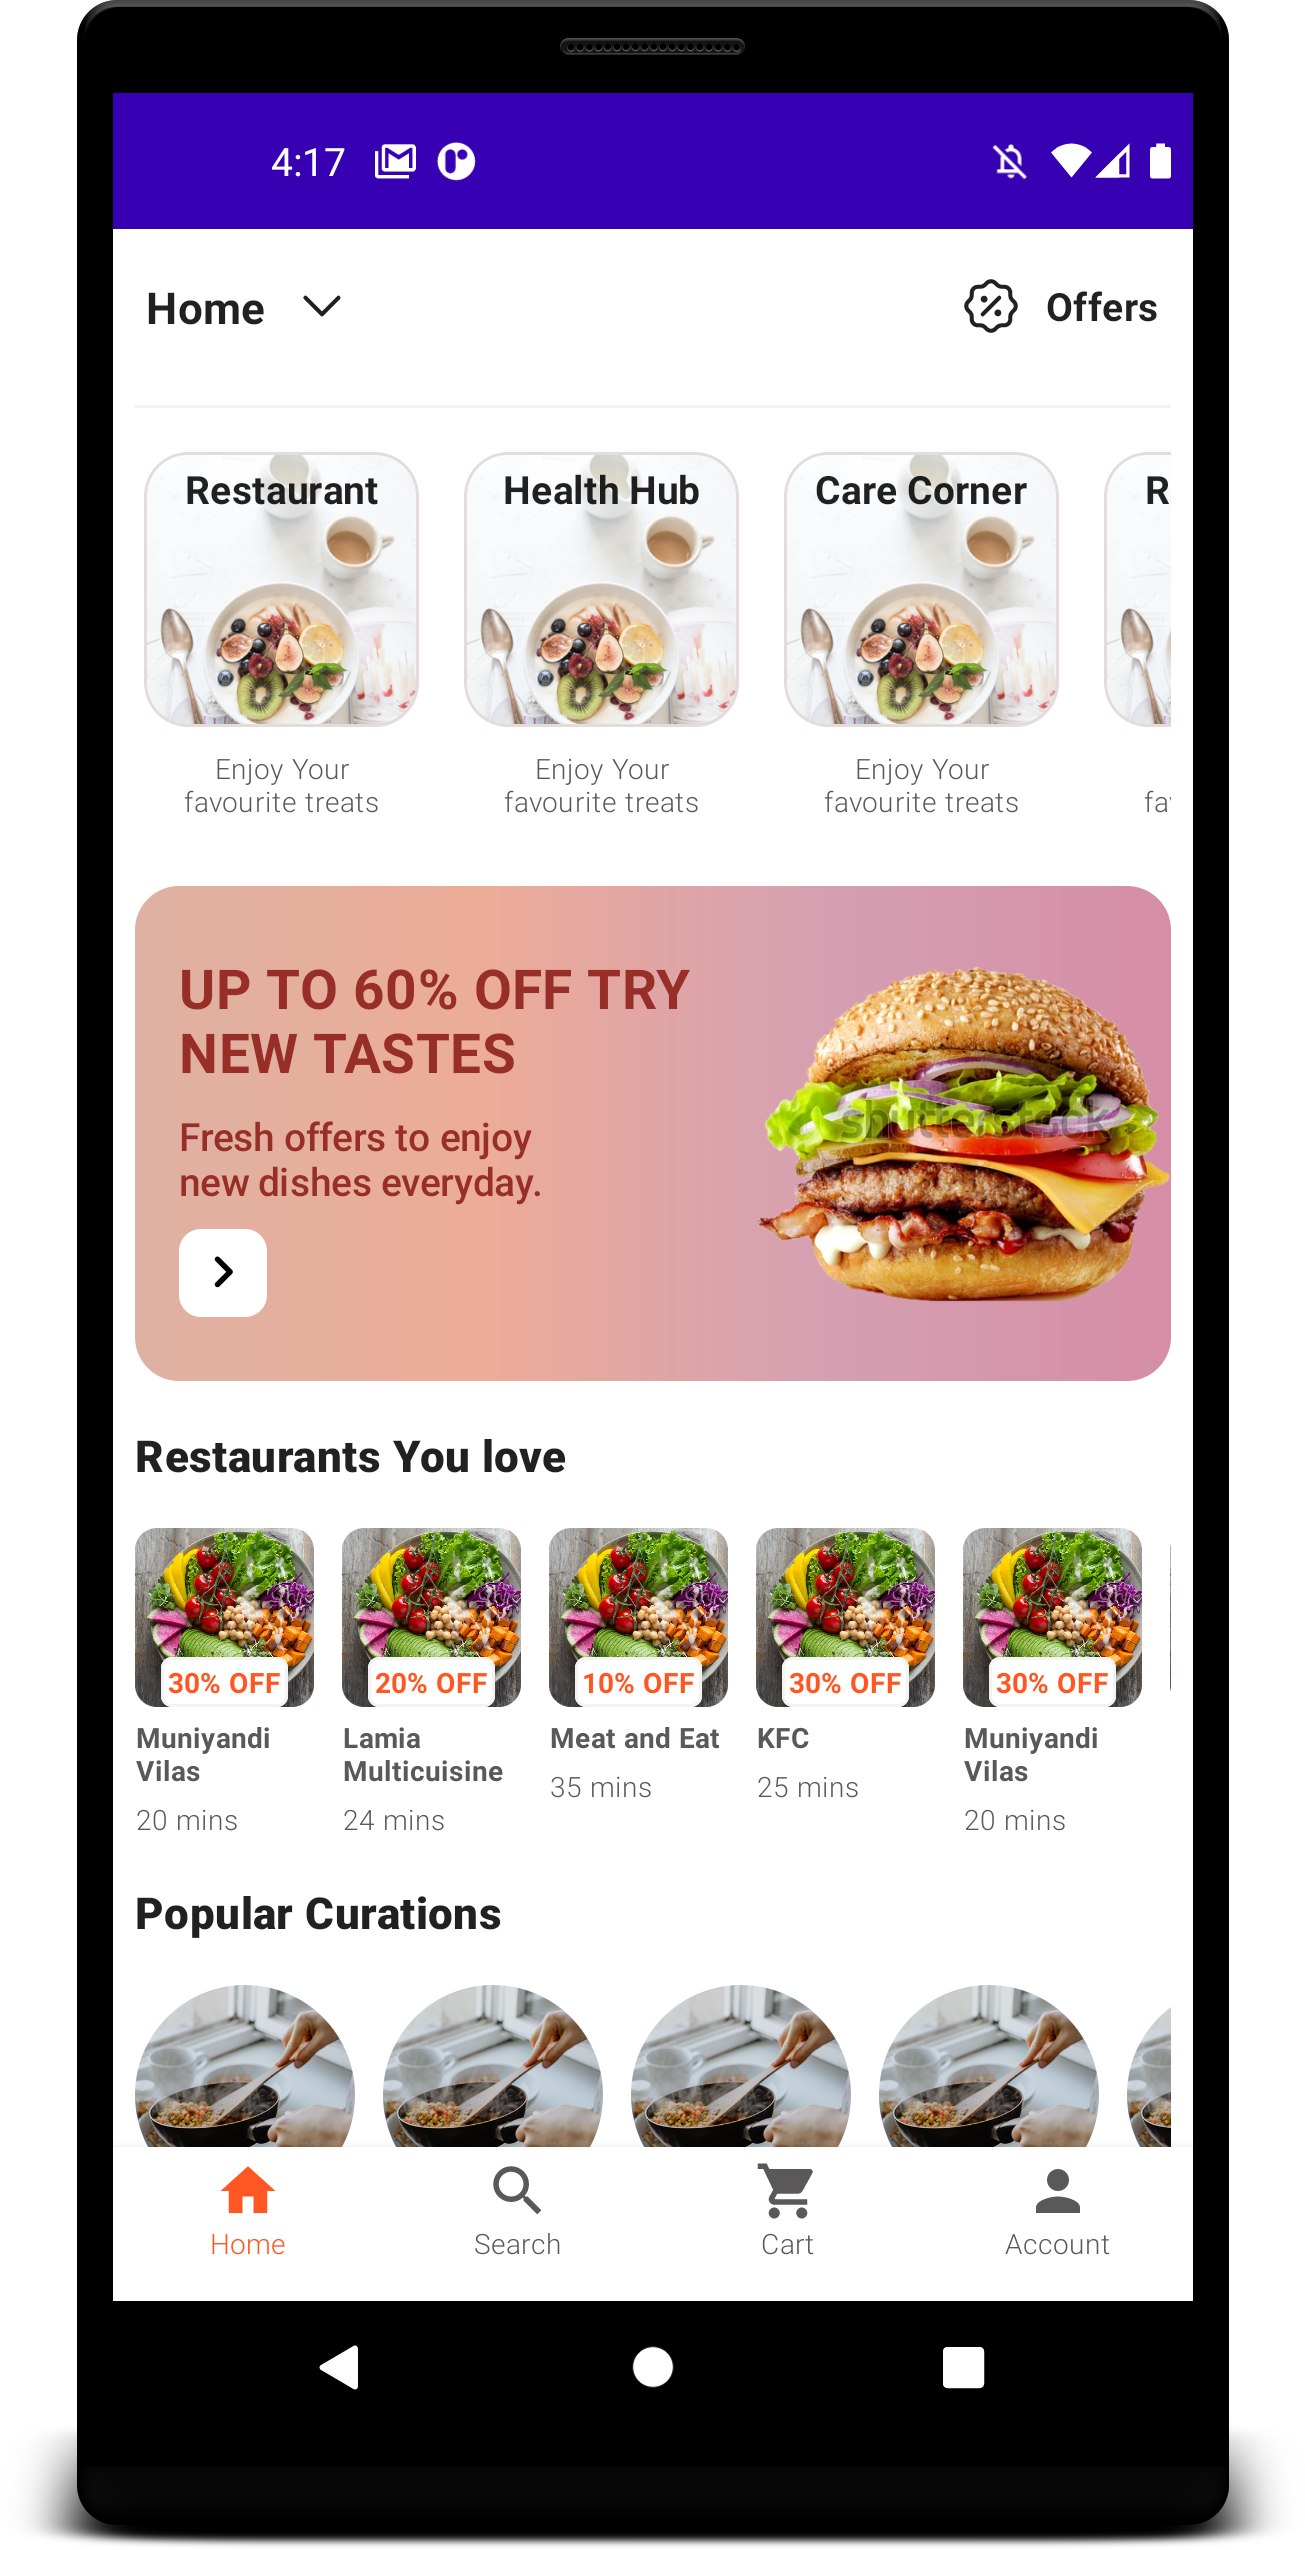
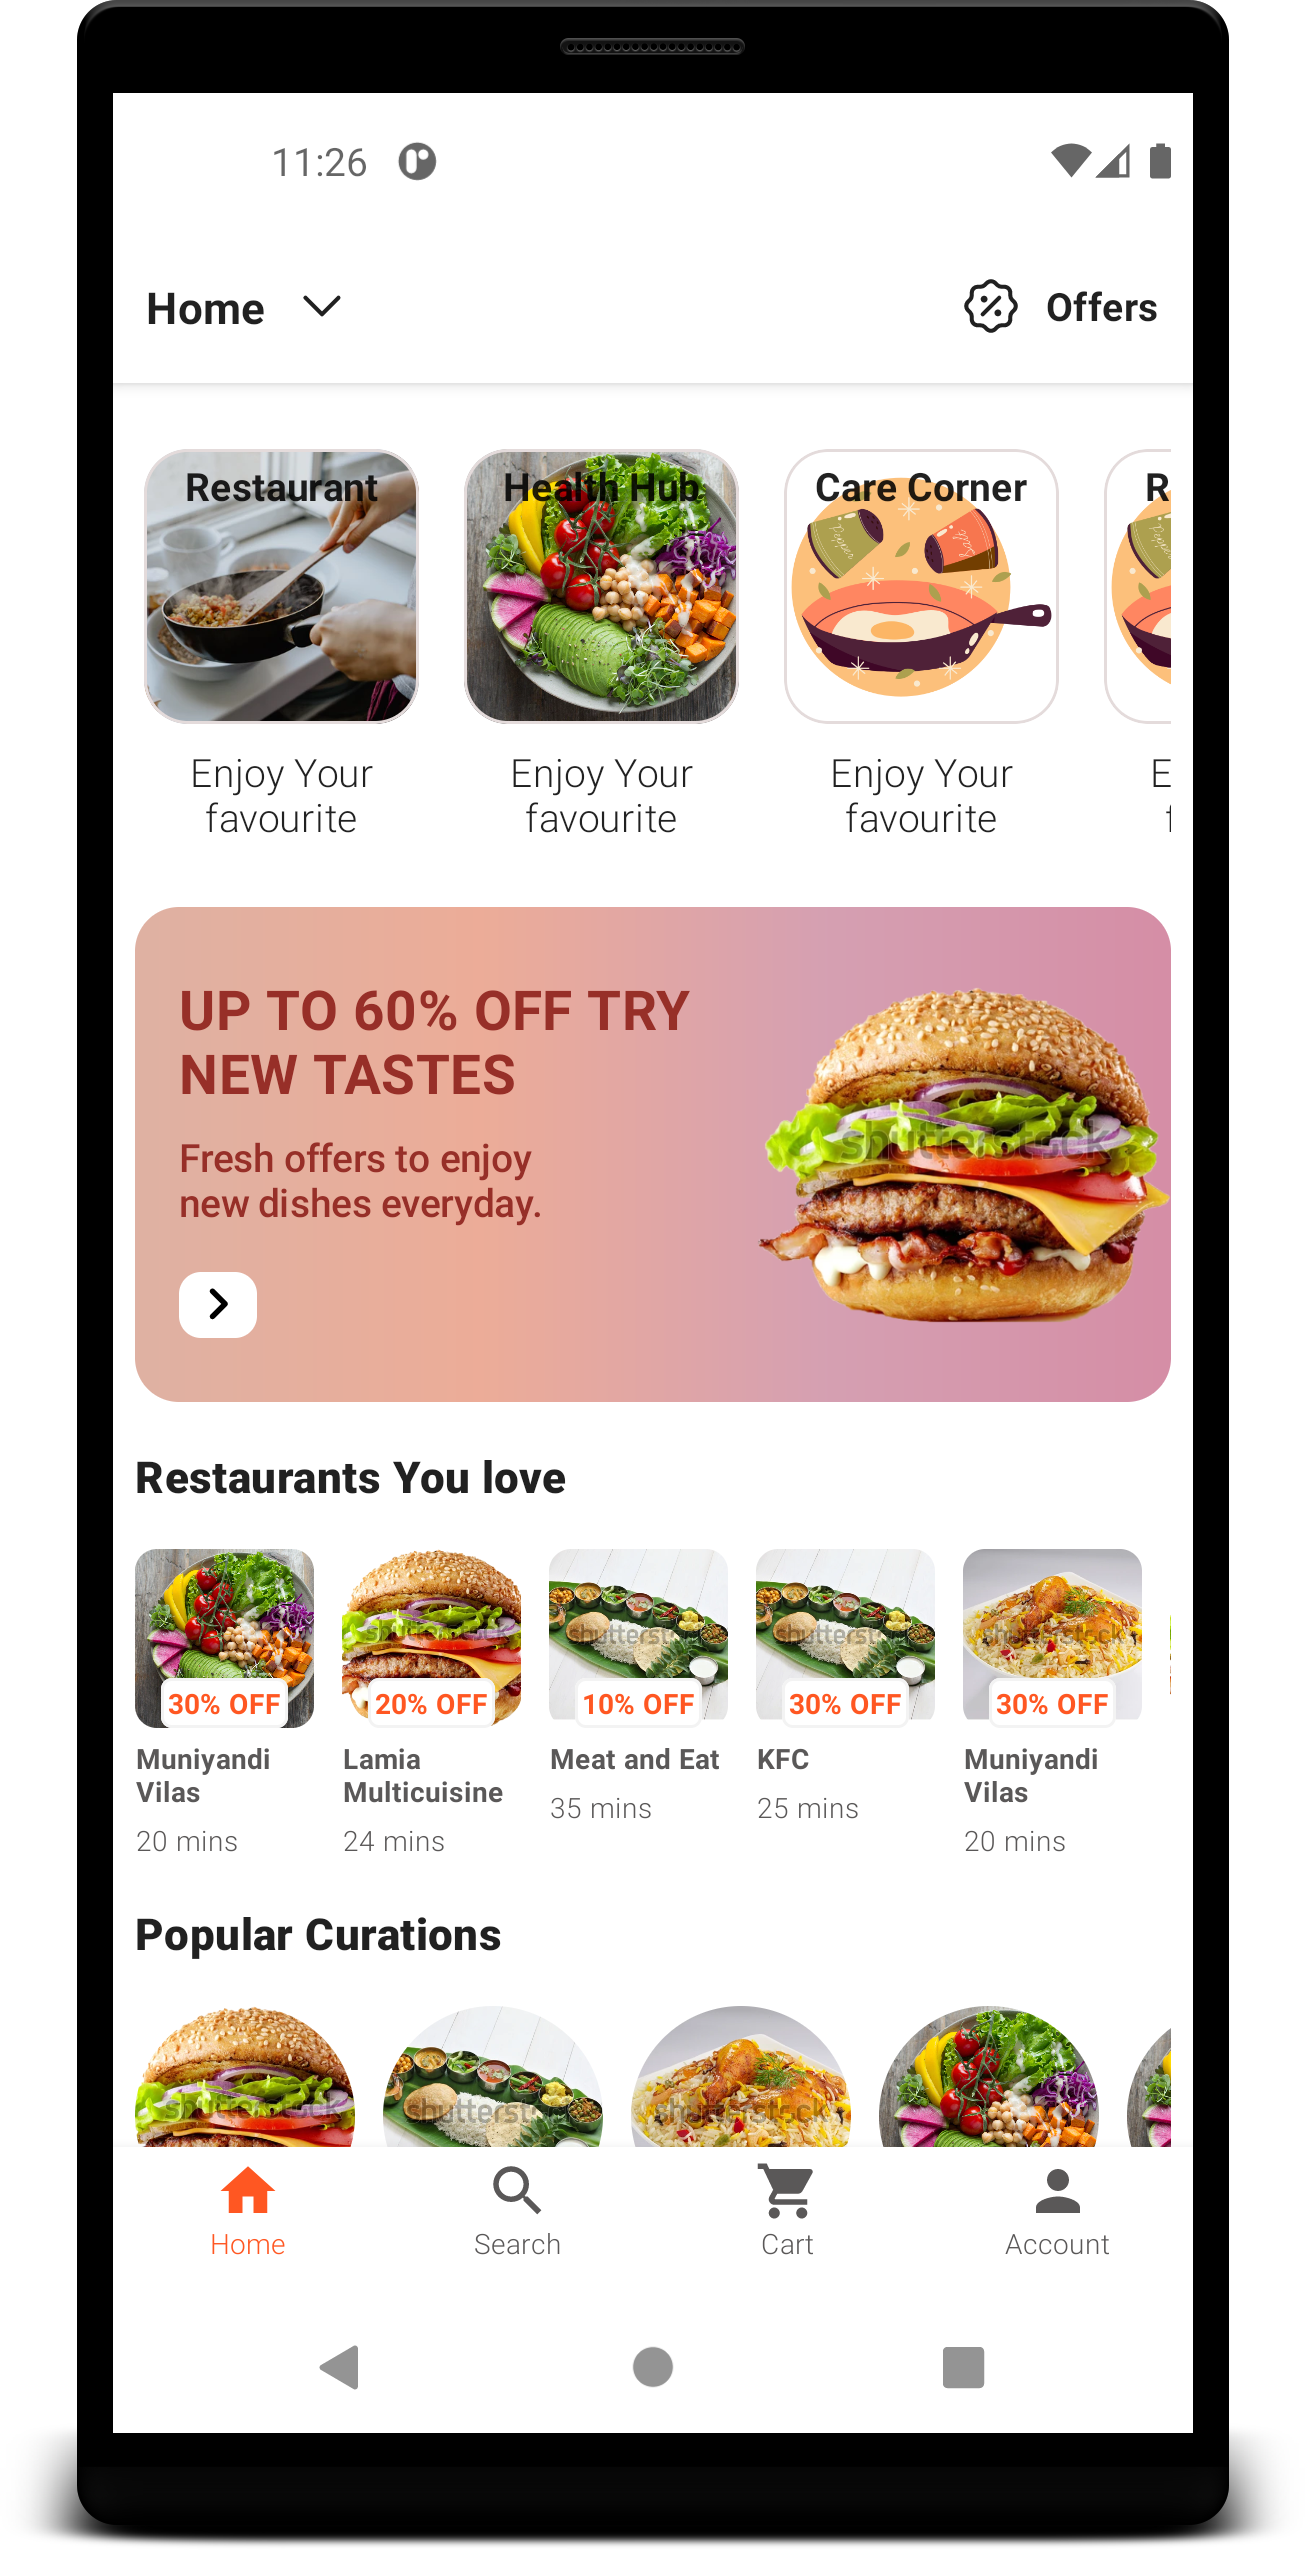
home screen ui updates

diff --git a/app/src/main/java/com/android/compose/swiggyclone/widgets/ItemBannerTypeOne.kt b/app/src/main/java/com/android/compose/swiggyclone/widgets/ItemBannerTypeOne.kt
@@ -20,56 +20,56 @@ import com.android.compose.swiggyclone.R
 
 @Composable
 fun ItemBannerTypeOne(modifier: Modifier) {
-    Box {
-        Row(
-            modifier
-                .fillMaxWidth()
-                .height(180.dp)
-                .clip(shape = RoundedCornerShape(16.dp))
-                .background(brush = Brush.horizontalGradient(colors = pinkGradiant), alpha = 0.6f)
+    Row(
+        modifier
+            .fillMaxWidth()
+            .height(180.dp)
+            .clip(shape = RoundedCornerShape(16.dp))
+            .background(brush = Brush.horizontalGradient(colors = pinkGradiant), alpha = 0.6f)
 
+    ) {
+        Column(
+            horizontalAlignment = Alignment.Start,
+            verticalArrangement = Arrangement.Center,
+            modifier = modifier
+                .padding(16.dp)
+                .fillMaxHeight()
+                .weight(0.6f)
         ) {
-            Column(
-                horizontalAlignment = Alignment.Start,
-                verticalArrangement = Arrangement.Center,
-                modifier = modifier
-                    .padding(16.dp)
-                    .fillMaxHeight()
-                    .weight(0.6f)
-            ) {
-                Text(
-                    text = "up to 60% off try new tastes".uppercase(),
-                    style = Typography.h6.copy(
-                        color = brown,
-                        fontWeight = FontWeight.Bold
-                    )
+            Text(
+                text = "up to 60% off try new tastes".uppercase(),
+                style = Typography.h6.copy(
+                    color = brown,
+                    fontWeight = FontWeight.Bold
                 )
+            )
 
-                Text(
-                    text = "Fresh offers to enjoy\nnew dishes everyday.",
-                    style = Typography.subtitle2.copy(
-                        color = brown,
-                    ),
-                    modifier = modifier.padding(top = 8.dp, bottom = 8.dp)
-                )
+            Text(
+                text = "Fresh offers to enjoy\nnew dishes everyday.",
+                style = Typography.subtitle2.copy(
+                    color = brown,
+                ),
+                modifier = modifier.padding(top = 8.dp, bottom = 8.dp)
+            )
 
-                Image(
-                    imageVector = Icons.Rounded.NavigateNext,
-                    contentDescription = "",
-                    modifier = modifier
-                        .background(shape = RoundedCornerShape(8.dp), color = white)
-                        .padding(4.dp),
-                )
-            }
+            Spacer(modifier = modifier.height(8.dp))
 
             Image(
-                painter = painterResource(id = R.drawable.img_burger),
+                imageVector = Icons.Rounded.NavigateNext,
                 contentDescription = "",
                 modifier = modifier
-                    .align(Alignment.CenterVertically)
-                    .weight(0.4f)
-                    .fillMaxHeight(),
+                    .background(shape = RoundedCornerShape(8.dp), color = white)
+                    .padding(start = 2.dp, end = 2.dp),
             )
         }
+
+        Image(
+            painter = painterResource(id = R.drawable.img_burger),
+            contentDescription = "",
+            modifier = modifier
+                .align(Alignment.CenterVertically)
+                .weight(0.4f)
+                .fillMaxHeight(),
+        )
     }
 }

diff --git a/app/src/main/java/com/android/compose/swiggyclone/widgets/ItemService.kt b/app/src/main/java/com/android/compose/swiggyclone/widgets/ItemService.kt
@@ -13,11 +13,12 @@ import androidx.compose.ui.Alignment
 import androidx.compose.ui.Modifier
 import androidx.compose.ui.draw.clip
 import androidx.compose.ui.layout.ContentScale
+import androidx.compose.ui.platform.LocalContext
 import androidx.compose.ui.res.painterResource
 import androidx.compose.ui.text.font.FontWeight
 import androidx.compose.ui.text.style.TextAlign
 import androidx.compose.ui.unit.dp
-import com.android.compose.swiggyclone.R
+import com.android.compose.swiggyclone.SwiggyCloneApp
 import com.android.compose.swiggyclone.ui.theme.Typography
 import com.android.compose.swiggyclone.ui.theme.grey
 
@@ -27,9 +28,12 @@ fun ItemServiceType(
     serviceName: String,
     description: String
 ) {
+    val context = LocalContext.current
+
     Column(
         horizontalAlignment = Alignment.CenterHorizontally,
-        modifier = modifier.padding(end = 10.dp)
+        modifier = modifier.padding(end = 10.dp),
+        verticalArrangement = Arrangement.Center
     ) {
         Box(
             modifier = modifier
@@ -42,7 +46,7 @@ fun ItemServiceType(
                 .height(100.dp)
         ) {
             Image(
-                painter = painterResource(id = R.drawable.img_service_type_placeholder),
+                painter = painterResource(id = (context.applicationContext as SwiggyCloneApp).getRandomImage()),
                 contentDescription = "",
                 contentScale = ContentScale.Crop,
                 modifier = modifier.clip(shape = RoundedCornerShape(16.dp))
@@ -63,7 +67,7 @@ fun ItemServiceType(
                 .padding(8.dp)
                 .width(90.dp),
             textAlign = TextAlign.Center,
-            style = Typography.caption,
+            style = Typography.body2.copy(fontWeight = FontWeight.Light),
             maxLines = 2
         )
     }

diff --git a/app/src/main/java/com/android/compose/swiggyclone/SwiggyCloneApp.kt b/app/src/main/java/com/android/compose/swiggyclone/SwiggyCloneApp.kt
@@ -1,12 +1,8 @@
 package com.android.compose.swiggyclone
 
 import android.app.Application
-import android.os.Build
-import android.util.Log
-import androidx.annotation.RequiresApi
-import java.io.File
-import java.nio.file.Files
-import java.nio.file.Paths
+import java.util.*
+
 
 class SwiggyCloneApp : Application() {
 
@@ -14,24 +10,18 @@ class SwiggyCloneApp : Application() {
         super.onCreate()
     }
 
-    companion object{
-//        fun getRandomImage() {
-//            Log.d("da", "getRandomImage")
-//            val drawableClass = R.drawable::class.java
-//            File("src/main/res/drawable").walk()
-//                .forEach {
-//                    Log.d("da", it.name)
-//                }
-//            val projectDirAbsolutePath = Paths.get("").toAbsolutePath().toString()
-//            val resourcesPath = Paths.get(projectDirAbsolutePath, "/src/main/res/drawable")
-//            Files.walk(resourcesPath)
-//                .filter { item -> Files.isRegularFile(item) }
-//                .filter { item -> item.toString().endsWith(".png") }
-//                .forEach { item -> println("filename: $item") }
-//
-////        val field = drawableClass.getDeclaredField(fileName)
-////        field.getInt(field)
-////        return field.getInt(field)
-//        }
+    fun getFoodImage(): Int {
+        val images = resources.obtainTypedArray(R.array.food_images_array)
+        val rand = Random()
+        val rndInt = rand.nextInt(images.length())
+        return images.getResourceId(rndInt, 0)
     }
+
+    fun getRandomImage(): Int {
+        val images = resources.obtainTypedArray(R.array.all_images_array)
+        val rand = Random()
+        val rndInt = rand.nextInt(images.length())
+        return images.getResourceId(rndInt, 0)
+    }
+
 }

diff --git a/app/src/main/java/com/android/compose/swiggyclone/widgets/ItemRestaurantSmall.kt b/app/src/main/java/com/android/compose/swiggyclone/widgets/ItemRestaurantSmall.kt
@@ -11,11 +11,12 @@ import androidx.compose.ui.Alignment
 import androidx.compose.ui.Modifier
 import androidx.compose.ui.draw.clip
 import androidx.compose.ui.layout.ContentScale
+import androidx.compose.ui.platform.LocalContext
 import androidx.compose.ui.res.painterResource
 import androidx.compose.ui.text.font.FontWeight
 import androidx.compose.ui.text.style.TextOverflow
 import androidx.compose.ui.unit.dp
-import com.android.compose.swiggyclone.R
+import com.android.compose.swiggyclone.SwiggyCloneApp
 import com.android.compose.swiggyclone.ui.theme.Typography
 import com.android.compose.swiggyclone.ui.theme.greyLight
 import com.android.compose.swiggyclone.ui.theme.secondaryVariant
@@ -27,14 +28,17 @@ fun ItemRestaurantSmall(
     modifier: Modifier,
     restaurant: Triple<String, String, Int>
 ) {
+    val context = LocalContext.current
     val itemMaxWidth = 65.dp
+
     Column(
         horizontalAlignment = Alignment.CenterHorizontally,
-        modifier = modifier.padding(end = 10.dp)
+        modifier = modifier.padding(end = 10.dp),
+        verticalArrangement = Arrangement.Center
     ) {
         Box {
             Image(
-                painter = painterResource(id = R.drawable.img_food_placeholder),
+                painter = painterResource(id = (context.applicationContext as SwiggyCloneApp).getFoodImage()),
                 contentDescription = "",
                 modifier = modifier
                     .size(itemMaxWidth, itemMaxWidth)
@@ -64,6 +68,7 @@ fun ItemRestaurantSmall(
             style = Typography.caption.copy(fontWeight = FontWeight.Bold), maxLines = 2,
             overflow = TextOverflow.Ellipsis
         )
+
         Text(
             text = restaurant.second, modifier = modifier
                 .padding(top = 4.dp)

diff --git a/app/src/main/java/com/android/compose/swiggyclone/widgets/ItemPopularCuration.kt b/app/src/main/java/com/android/compose/swiggyclone/widgets/ItemPopularCuration.kt
@@ -8,27 +8,29 @@ import androidx.compose.foundation.layout.size
 import androidx.compose.foundation.layout.width
 import androidx.compose.foundation.shape.CircleShape
 import androidx.compose.foundation.shape.CornerSize
-import androidx.compose.foundation.shape.RoundedCornerShape
 import androidx.compose.material.Text
 import androidx.compose.runtime.Composable
 import androidx.compose.ui.Alignment
 import androidx.compose.ui.Modifier
 import androidx.compose.ui.draw.clip
 import androidx.compose.ui.layout.ContentScale
+import androidx.compose.ui.platform.LocalContext
 import androidx.compose.ui.res.painterResource
 import androidx.compose.ui.unit.dp
-import com.android.compose.swiggyclone.R
+import com.android.compose.swiggyclone.SwiggyCloneApp
 import com.android.compose.swiggyclone.ui.theme.Typography
 import com.android.compose.swiggyclone.ui.theme.white
 
 @Composable
 fun ItemPopularCuration(modifier: Modifier, curationName: String) {
+    val context = LocalContext.current
+
     Column(
         horizontalAlignment = Alignment.CenterHorizontally,
         modifier = modifier.padding(end = 10.dp)
     ) {
         Image(
-            painter = painterResource(id = R.drawable.img_cooking),
+            painter = painterResource(id = (context.applicationContext as SwiggyCloneApp).getFoodImage()),
             contentDescription = "",
             modifier = modifier
                 .size(80.dp)

diff --git a/app/src/main/java/com/android/compose/swiggyclone/ui/theme/Theme.kt b/app/src/main/java/com/android/compose/swiggyclone/ui/theme/Theme.kt
@@ -3,9 +3,12 @@ package com.android.compose.swiggyclone.ui.theme
 import android.app.StatusBarManager
 import androidx.compose.foundation.isSystemInDarkTheme
 import androidx.compose.material.MaterialTheme
+import androidx.compose.material.MaterialTheme.colors
 import androidx.compose.material.darkColors
 import androidx.compose.material.lightColors
 import androidx.compose.runtime.Composable
+import androidx.compose.runtime.SideEffect
+import com.google.accompanist.systemuicontroller.rememberSystemUiController
 
 private val DarkColorPalette = darkColors(
     primary = primaryColor,
@@ -16,7 +19,7 @@ private val DarkColorPalette = darkColors(
     background = white,
     surface = white,
     onSurface = black,
-    onPrimary = black
+    onPrimary = black,
 )
 
 private val LightColorPalette = lightColors(
@@ -45,6 +48,15 @@ fun SwiggyCloneTheme(
     darkTheme: Boolean = isSystemInDarkTheme(),
     content: @Composable() () -> Unit
 ) {
+
+    val sysUiController = rememberSystemUiController()
+
+    SideEffect {
+        sysUiController.setSystemBarsColor(
+            color = white
+        )
+    }
+
     val colors = if (darkTheme) {
         DarkColorPalette
     } else {

diff --git a/app/src/main/java/com/android/compose/swiggyclone/features/MainActivity.kt b/app/src/main/java/com/android/compose/swiggyclone/features/MainActivity.kt
@@ -44,7 +44,7 @@ class MainActivity : ComponentActivity() {
 @Composable
 private fun SetUpToolbar(modifier: Modifier) {
     TopAppBar(
-        elevation = 0.dp
+        elevation = 4.dp,
     ) {
         Text(
             text = "Home",
@@ -124,8 +124,6 @@ fun App() {
                     contentPadding = PaddingValues(start=8.dp,end = 8.dp,top = 8.dp,bottom = 100.dp),
                 ) {
                     item {
-                        Divider(color = greyLight)
-
                         EmptySpace(modifier = modifier)
 
                         LazyRow {
